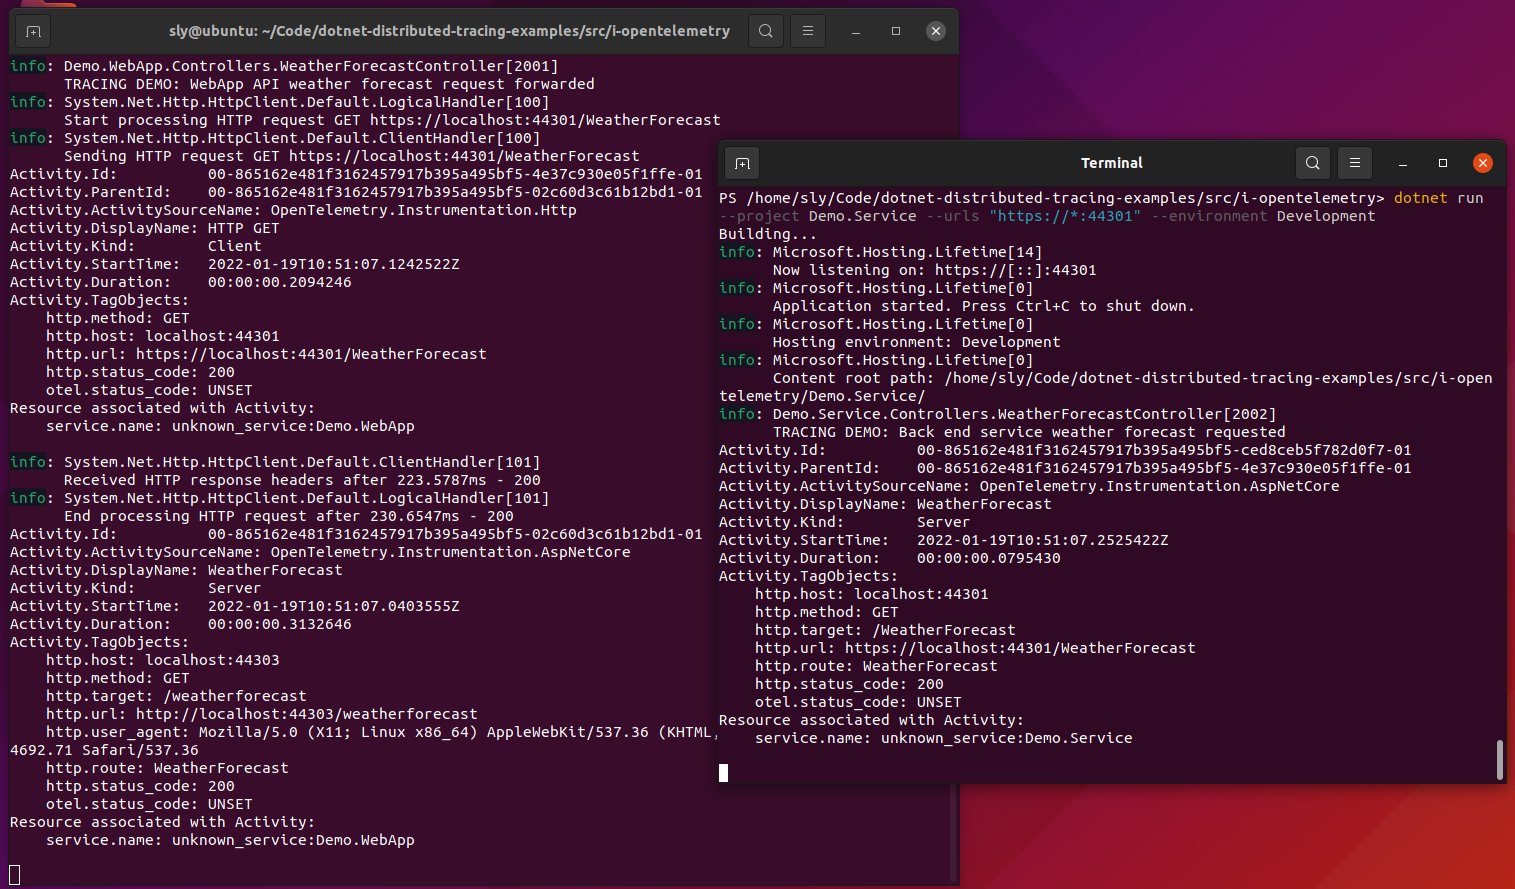
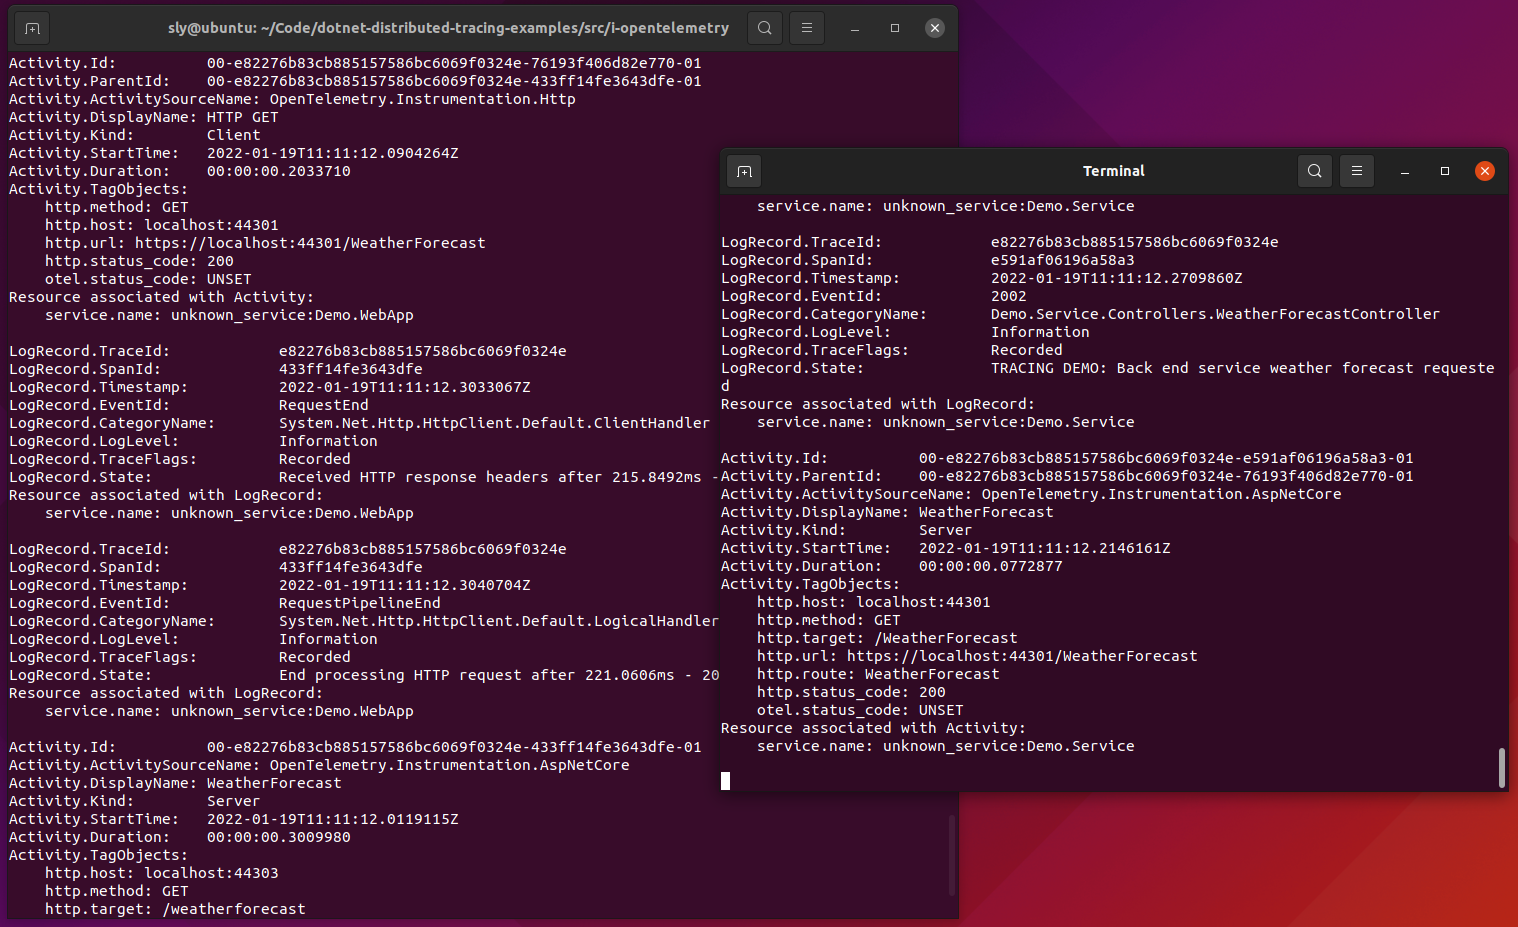
Add OTel logging as well

Changed region(s): [[0.0, 0.0, 1.0, 1.0], [0.9617, 0.1519, 0.9927, 0.1822], [0.8686, 0.1519, 0.8997, 0.1822]]

diff --git a/src/i-opentelemetry/Demo.WebApp/Program.cs b/src/i-opentelemetry/Demo.WebApp/Program.cs
@@ -1,10 +1,14 @@
+using OpenTelemetry.Logs;
 using OpenTelemetry.Trace;
-using OpenTelemetry.Resources;
 
 var builder = WebApplication.CreateBuilder(args);
 
 // Add services to the container.
-builder.Services.AddHttpClient();
+builder.Logging.ClearProviders()
+    .AddOpenTelemetry(configure =>
+    {
+        configure.AddConsoleExporter();
+    });
 builder.Services.AddOpenTelemetryTracing(tracerProviderBuilder =>
 {
     tracerProviderBuilder
@@ -12,6 +16,7 @@ builder.Services.AddOpenTelemetryTracing(tracerProviderBuilder =>
         .AddHttpClientInstrumentation()
         .AddConsoleExporter();
 });
+builder.Services.AddHttpClient();
 
 builder.Services.AddControllersWithViews();
 

diff --git a/src/i-opentelemetry/Demo.Service/Program.cs b/src/i-opentelemetry/Demo.Service/Program.cs
@@ -1,13 +1,17 @@
+using OpenTelemetry.Logs;
 using OpenTelemetry.Trace;
-using OpenTelemetry.Resources;
 
 var builder = WebApplication.CreateBuilder(args);
 
 // Add services to the container.
-builder.Services.AddHttpClient();
-builder.Services.AddOpenTelemetryTracing(tracerProviderBuilder =>
+builder.Logging.ClearProviders()
+    .AddOpenTelemetry(configure =>
+    {
+        configure.AddConsoleExporter();
+    });
+builder.Services.AddOpenTelemetryTracing(configure =>
 {
-    tracerProviderBuilder
+    configure
         .AddAspNetCoreInstrumentation()
         .AddConsoleExporter();
 });

diff --git a/src/i-opentelemetry/ReadMe.md b/src/i-opentelemetry/ReadMe.md
@@ -198,7 +198,9 @@ Check the front end at `https://localhost:44303/fetch-data` and see the OpenTele
 
 ![](images/opentelemetry-basic.png)
 
-Traces are logged when they complete, so you will see the inner trace in the back end service, and see that it's Activity.ParentId is the HttpClient trace in the web API, and it's parent (also in the web API) is the web API request.
+Activity traces are recorded when they complete, so you will see the inner Activity in the back end service listed first, and see that it's Activity.ParentId is the HttpClient Activity in the web API, and see the last it's parent (also in the web API) is the web API request Activity.
+
+Also shown are the LogRecord entries, from both system logs and the application log in the back end service (the other logs are off the screen, as the console exporter is quite verbose).
 
 
 ## HTTPS Developer Certificates
